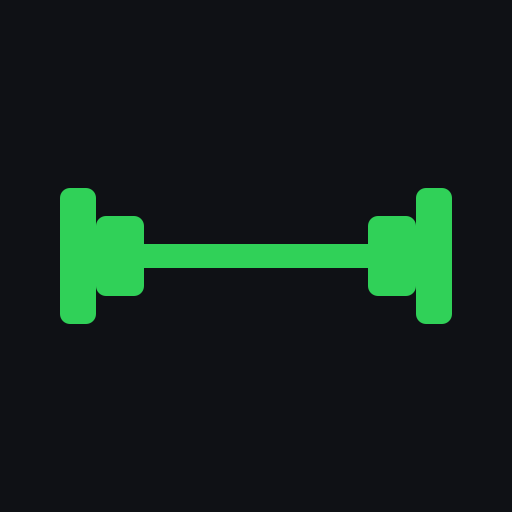
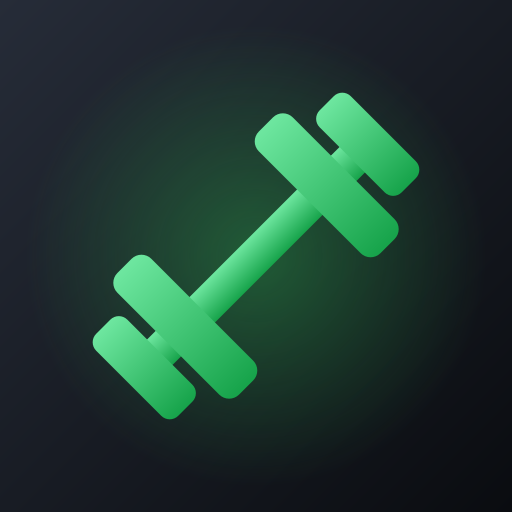
Nuova icona, Benvenuto in light

diff --git a/src/styles/app.css b/src/styles/app.css
@@ -169,4 +169,5 @@ textarea.input { padding: 10px 12px; min-height: 80px; }
 .hero-stats { display: flex; justify-content: space-between; gap: 10px; margin-top: 16px; font-size: 13px; color: rgba(255,255,255,.8); text-decoration: none; }
 .hero-stats b { color: #fff; font-size: 15px; }
 
-.hero-welcome { font-size: 22px; font-weight: 700; color: #fff; margin-bottom: 2px; }
+.hero-welcome { font-size: 24px; font-weight: 300; color: #fff; margin-bottom: 2px; }
+.hero-welcome b { font-weight: 800; }

diff --git a/src/screens/Home.tsx b/src/screens/Home.tsx
@@ -69,7 +69,7 @@ export function Home() {
           </>
         ) : (
           <>
-            <div class="hero-welcome">Benvenuto Stefano</div>
+            <div class="hero-welcome">Benvenuto <b>Stefano</b></div>
             {last && (
               <div class="muted-on-hero">
                 Ultimo: {last.planName}, {ago(last.startedAt)}{next ? ` · oggi tocca a ${next.name}` : ''}
